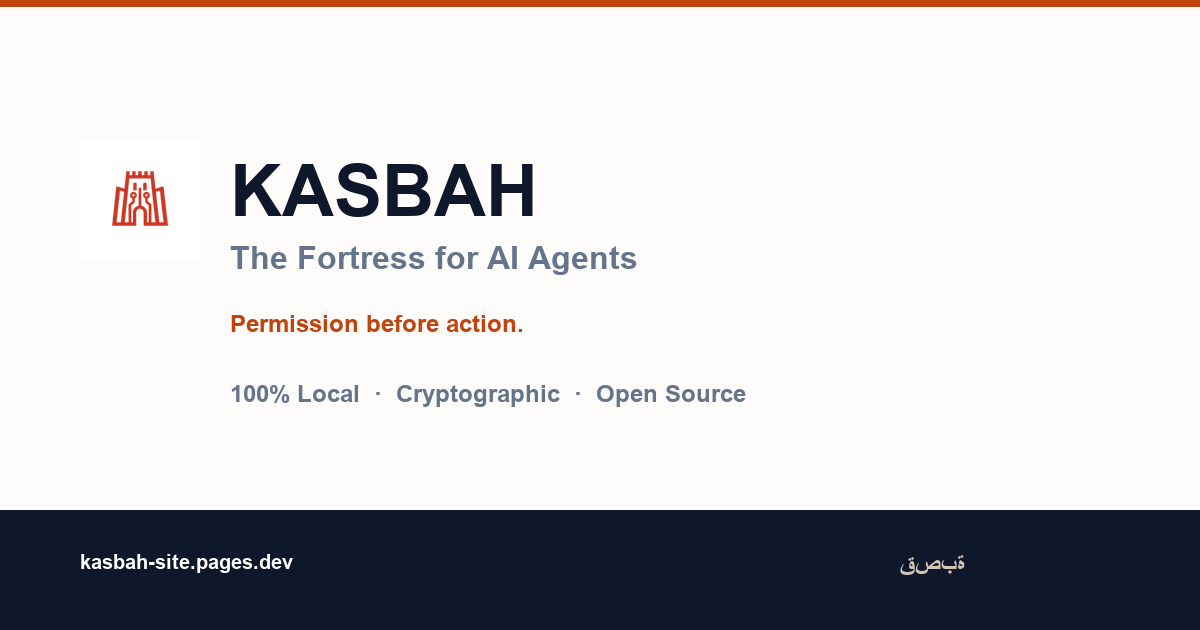
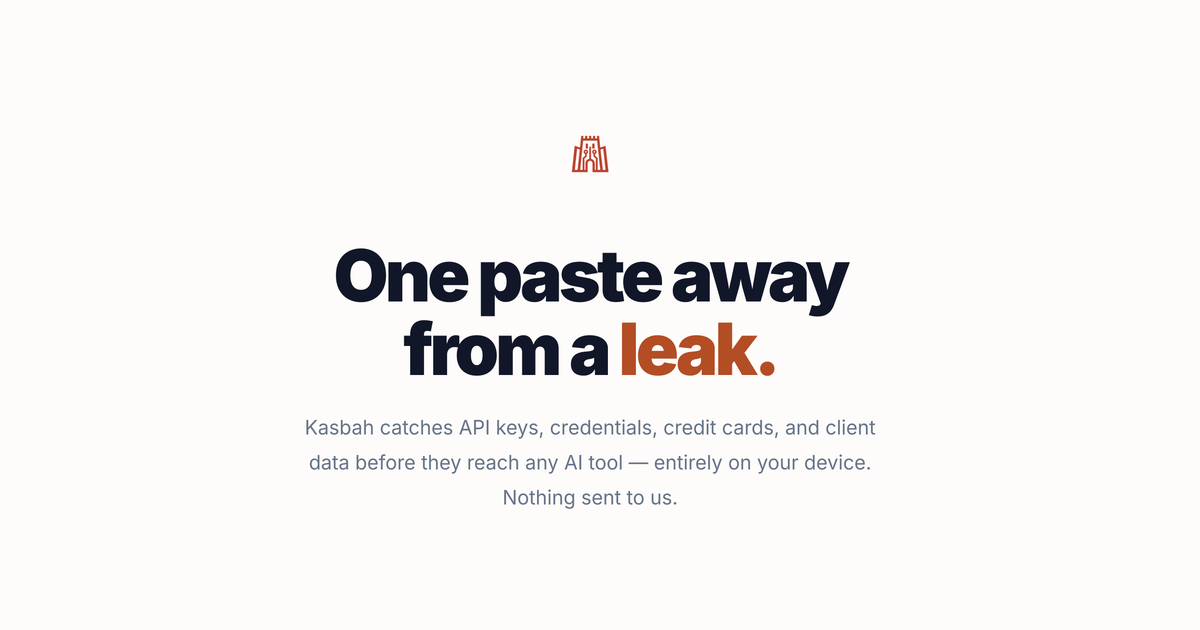
Update OG preview image and meta tags
- New og.png with current brand design (Inter font, correct colors)
- Added Twitter card meta tags for better social sharing
- Updated og:description to match website hero text
- Added og:url and og:type meta properties

diff --git a/public/index.html b/public/index.html
@@ -6,8 +6,14 @@
   <title>Kasbah Guard — Stop Data Leaks to AI</title>
   <meta name="description" content="Browser extension that catches passwords, API keys, credit cards, and client data before they reach ChatGPT or any AI tool. 100% local. Zero servers.">
   <meta property="og:title" content="Kasbah Guard — One paste away from a leak">
-  <meta property="og:description" content="Browser extension. 100% local detection. Works on Chrome, Firefox, Edge, Brave, Safari.">
-  <meta property="og:image" content="/og.png">
+  <meta property="og:description" content="Kasbah catches API keys, credentials, credit cards, and client data before they reach any AI tool — entirely on your device. Nothing sent to us.">
+  <meta property="og:image" content="https://bekasbah.com/og.png">
+  <meta property="og:url" content="https://bekasbah.com/">
+  <meta property="og:type" content="website">
+  <meta name="twitter:card" content="summary_large_image">
+  <meta name="twitter:title" content="Kasbah Guard — One paste away from a leak">
+  <meta name="twitter:description" content="Kasbah catches API keys, credentials, credit cards, and client data before they reach any AI tool — entirely on your device. Nothing sent to us.">
+  <meta name="twitter:image" content="https://bekasbah.com/og.png">
   <link rel="canonical" href="https://bekasbah.com/"/>
   <link rel="icon" href="/logo-200.png"/>
   <script defer data-domain="bekasbah.com" src="https://plausible.io/js/script.js"></script>
